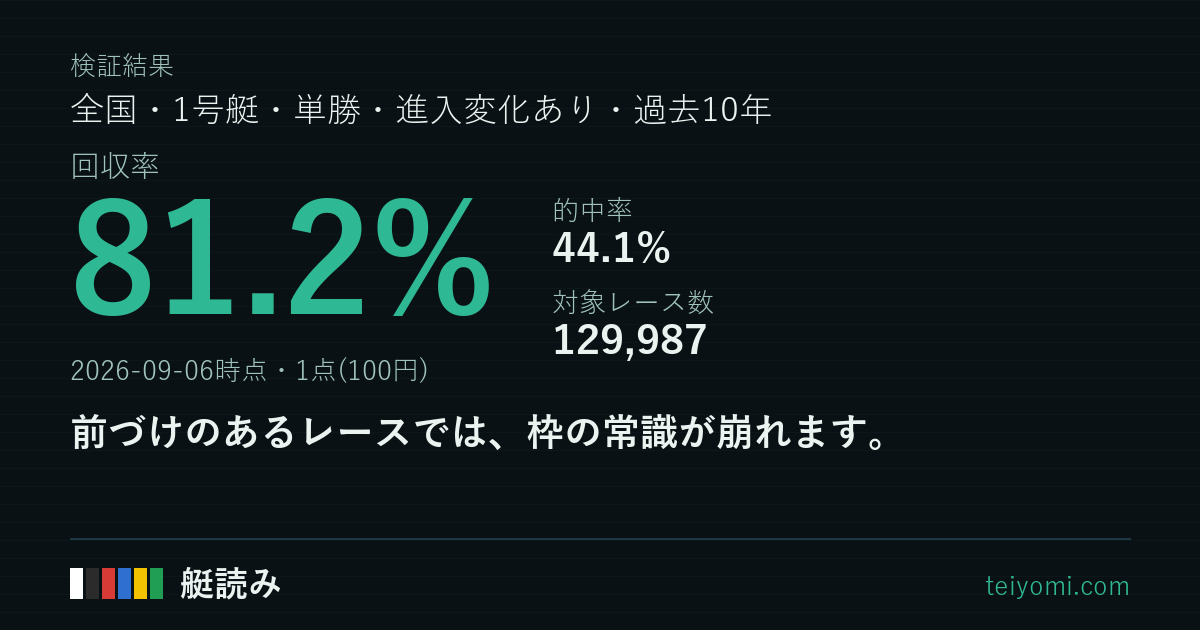
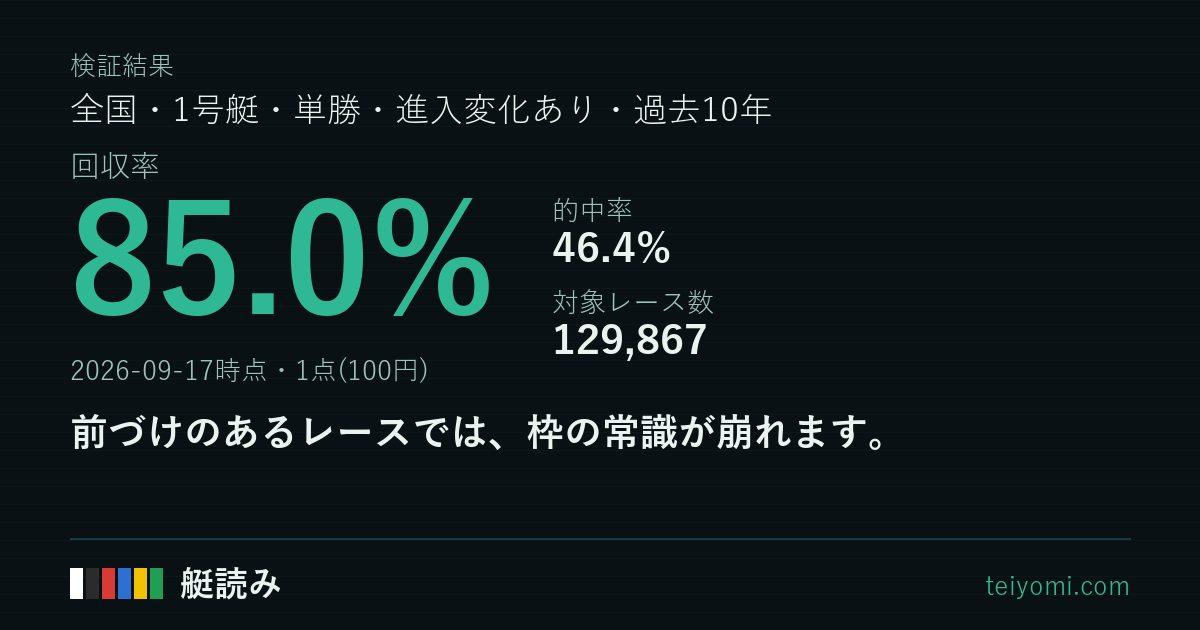
/checked/ の12本を測り直す(2026-09-17時点・欠場レースの払戻修正後)
- backtest-custom.html を ?preset= で開いて画面の値を写し直し(build_checked.py の手順)。
  欠場・出遅れのあったレースに払戻が入ったため、的中率・回収率がそろって上がった
  (艇番での検証は「払戻に自分の組があるか」で当たりを数えるので、払戻が空のレースは外れ扱いだった)
- 文章に書いてある数字も合わせる: C の見出し「的中3.1%」→3.2%、K・N の本文「89.5%」→90.4%(A の回収率)
- カード画像12枚・ページ13本を再生成

diff --git a/checked/index.html b/checked/index.html
@@ -5,12 +5,12 @@
 <meta name="viewport" content="width=device-width, initial-scale=1">
 <meta http-equiv="Content-Security-Policy" content="default-src 'self'; script-src 'self'; connect-src 'self'; style-src 'self' 'unsafe-inline'; img-src 'self' data:; object-src 'none'; base-uri 'self'; form-action 'self'">
 <title>検証結果｜艇読み</title>
-<meta name="description" content="1号艇の単勝を10年買い続けたら？ 条件を指定した検証の結果を12本。すべて実測の機械的な集計です（2026-09-06時点）。">
+<meta name="description" content="1号艇の単勝を10年買い続けたら？ 条件を指定した検証の結果を12本。すべて実測の機械的な集計です（2026-09-17時点）。">
 <link rel="canonical" href="https://teiyomi.com/checked/">
 <meta property="og:type" content="article">
 <meta property="og:url" content="https://teiyomi.com/checked/">
 <meta property="og:title" content="検証結果｜艇読み">
-<meta property="og:description" content="1号艇の単勝を10年買い続けたら？ 条件を指定した検証の結果を12本。すべて実測の機械的な集計です（2026-09-06時点）。">
+<meta property="og:description" content="1号艇の単勝を10年買い続けたら？ 条件を指定した検証の結果を12本。すべて実測の機械的な集計です（2026-09-17時点）。">
 <meta property="og:image" content="https://teiyomi.com/og-image.png">
 <meta name="twitter:card" content="summary_large_image">
 <link rel="stylesheet" href="/theme.css">
@@ -42,19 +42,19 @@ p.body{font-size:14.5px; margin:18px 0;}
 <div class="wrap">
 <p class="crumb"><a href="/">艇読み</a> ／ 検証結果</p>
 <h1>買い続けたら、どうなるか。</h1>
-<p class="cond">条件を決めて過去10年ぶんを集計した結果です（2026-09-06時点）。どれも同じ条件を自分で回せます。</p>
-<a class="go" style="background:var(--surface);color:var(--ink);border:1px solid var(--line);text-align:left;" href="/checked/zenkoku-tansho-1.html">全国・1号艇・単勝・過去10年<small>回収率 89.5% ／ 的中率 53.6% ／ 550,174レース</small></a>
-<a class="go" style="background:var(--surface);color:var(--ink);border:1px solid var(--line);text-align:left;" href="/checked/zenkoku-fukusho-1.html">全国・1号艇・複勝・過去10年<small>回収率 92.8% ／ 的中率 70.8% ／ 550,174レース</small></a>
-<a class="go" style="background:var(--surface);color:var(--ink);border:1px solid var(--line);text-align:left;" href="/checked/zenkoku-tansho-6.html">全国・6号艇・単勝・過去10年<small>回収率 38.6% ／ 的中率 3.1% ／ 550,174レース</small></a>
-<a class="go" style="background:var(--surface);color:var(--ink);border:1px solid var(--line);text-align:left;" href="/checked/zenkoku-3rentan-1-23.html">全国・1号艇を軸（1着）→2・3号艇・3連単・過去10年<small>回収率 80.0% ／ 的中率 12.0% ／ 550,174レース</small></a>
-<a class="go" style="background:var(--surface);color:var(--ink);border:1px solid var(--line);text-align:left;" href="/checked/zenkoku-3rentan-1-nagashi.html">全国・1号艇を軸（1着）→残り5艇・3連単・過去10年<small>回収率 70.7% ／ 的中率 53.6% ／ 550,174レース</small></a>
-<a class="go" style="background:var(--surface);color:var(--ink);border:1px solid var(--line);text-align:left;" href="/checked/omura-tansho-1.html">大村・1号艇・単勝・過去10年<small>回収率 92.6% ／ 的中率 62.8% ／ 23,540レース</small></a>
-<a class="go" style="background:var(--surface);color:var(--ink);border:1px solid var(--line);text-align:left;" href="/checked/toda-tansho-1.html">戸田・1号艇・単勝・過去10年<small>回収率 82.4% ／ 的中率 42.1% ／ 23,167レース</small></a>
-<a class="go" style="background:var(--surface);color:var(--ink);border:1px solid var(--line);text-align:left;" href="/checked/zenkoku-tansho-1-wind5.html">全国・1号艇・単勝・風5m以上・過去10年<small>回収率 83.4% ／ 的中率 47.8% ／ 86,116レース</small></a>
-<a class="go" style="background:var(--surface);color:var(--ink);border:1px solid var(--line);text-align:left;" href="/checked/zenkoku-tansho-1-yusho.html">全国・1号艇・単勝・優勝戦・過去10年<small>回収率 86.9% ／ 的中率 68.9% ／ 8,518レース</small></a>
-<a class="go" style="background:var(--surface);color:var(--ink);border:1px solid var(--line);text-align:left;" href="/checked/zenkoku-tansho-1-entrychange.html">全国・1号艇・単勝・進入変化あり・過去10年<small>回収率 81.2% ／ 的中率 44.1% ／ 129,987レース</small></a>
-<a class="go" style="background:var(--surface);color:var(--ink);border:1px solid var(--line);text-align:left;" href="/checked/zenkoku-tansho-1-night.html">全国・1号艇・単勝・ナイター場・過去10年<small>回収率 89.8% ／ 的中率 56.0% ／ 161,365レース</small></a>
-<a class="go" style="background:var(--surface);color:var(--ink);border:1px solid var(--line);text-align:left;" href="/checked/zenkoku-tansho-1-winter.html">全国・1号艇・単勝・冬(12〜2月)・過去10年<small>回収率 89.7% ／ 的中率 53.6% ／ 141,794レース</small></a>
+<p class="cond">条件を決めて過去10年ぶんを集計した結果です（2026-09-17時点）。どれも同じ条件を自分で回せます。</p>
+<a class="go" style="background:var(--surface);color:var(--ink);border:1px solid var(--line);text-align:left;" href="/checked/zenkoku-tansho-1.html">全国・1号艇・単勝・過去10年<small>回収率 90.4% ／ 的中率 54.1% ／ 550,294レース</small></a>
+<a class="go" style="background:var(--surface);color:var(--ink);border:1px solid var(--line);text-align:left;" href="/checked/zenkoku-fukusho-1.html">全国・1号艇・複勝・過去10年<small>回収率 93.8% ／ 的中率 71.5% ／ 550,294レース</small></a>
+<a class="go" style="background:var(--surface);color:var(--ink);border:1px solid var(--line);text-align:left;" href="/checked/zenkoku-tansho-6.html">全国・6号艇・単勝・過去10年<small>回収率 39.1% ／ 的中率 3.2% ／ 550,294レース</small></a>
+<a class="go" style="background:var(--surface);color:var(--ink);border:1px solid var(--line);text-align:left;" href="/checked/zenkoku-3rentan-1-23.html">全国・1号艇を軸（1着）→2・3号艇・3連単・過去10年<small>回収率 80.5% ／ 的中率 12.1% ／ 550,294レース</small></a>
+<a class="go" style="background:var(--surface);color:var(--ink);border:1px solid var(--line);text-align:left;" href="/checked/zenkoku-3rentan-1-nagashi.html">全国・1号艇を軸（1着）→残り5艇・3連単・過去10年<small>回収率 71.1% ／ 的中率 54.1% ／ 550,294レース</small></a>
+<a class="go" style="background:var(--surface);color:var(--ink);border:1px solid var(--line);text-align:left;" href="/checked/omura-tansho-1.html">大村・1号艇・単勝・過去10年<small>回収率 93.4% ／ 的中率 63.4% ／ 23,552レース</small></a>
+<a class="go" style="background:var(--surface);color:var(--ink);border:1px solid var(--line);text-align:left;" href="/checked/toda-tansho-1.html">戸田・1号艇・単勝・過去10年<small>回収率 83.3% ／ 的中率 42.7% ／ 23,143レース</small></a>
+<a class="go" style="background:var(--surface);color:var(--ink);border:1px solid var(--line);text-align:left;" href="/checked/zenkoku-tansho-1-wind5.html">全国・1号艇・単勝・風5m以上・過去10年<small>回収率 84.5% ／ 的中率 48.4% ／ 86,188レース</small></a>
+<a class="go" style="background:var(--surface);color:var(--ink);border:1px solid var(--line);text-align:left;" href="/checked/zenkoku-tansho-1-yusho.html">全国・1号艇・単勝・優勝戦・過去10年<small>回収率 86.9% ／ 的中率 69.0% ／ 8,516レース</small></a>
+<a class="go" style="background:var(--surface);color:var(--ink);border:1px solid var(--line);text-align:left;" href="/checked/zenkoku-tansho-1-entrychange.html">全国・1号艇・単勝・進入変化あり・過去10年<small>回収率 85.0% ／ 的中率 46.4% ／ 129,867レース</small></a>
+<a class="go" style="background:var(--surface);color:var(--ink);border:1px solid var(--line);text-align:left;" href="/checked/zenkoku-tansho-1-night.html">全国・1号艇・単勝・ナイター場・過去10年<small>回収率 90.6% ／ 的中率 56.5% ／ 161,341レース</small></a>
+<a class="go" style="background:var(--surface);color:var(--ink);border:1px solid var(--line);text-align:left;" href="/checked/zenkoku-tansho-1-winter.html">全国・1号艇・単勝・冬(12〜2月)・過去10年<small>回収率 90.8% ／ 的中率 54.2% ／ 141,794レース</small></a>
 <p class="note">実測の機械的な集計です。買い方の推奨ではありません。数字は集計日時点のもので、データは毎日増えています。</p>
 </div>
 </body>

diff --git a/checked/zenkoku-tansho-1-night.html b/checked/zenkoku-tansho-1-night.html
@@ -5,12 +5,12 @@
 <meta name="viewport" content="width=device-width, initial-scale=1">
 <meta http-equiv="Content-Security-Policy" content="default-src 'self'; script-src 'self'; connect-src 'self'; style-src 'self' 'unsafe-inline'; img-src 'self' data:; object-src 'none'; base-uri 'self'; form-action 'self'">
 <title>全国・1号艇・単勝・ナイター場・過去10年の検証結果｜艇読み</title>
-<meta name="description" content="全国・1号艇・単勝・ナイター場・過去10年を買い続けた場合の回収率は89.8%、的中率は56.0%。161,365レースの機械的な集計です（2026-09-06時点）。">
+<meta name="description" content="全国・1号艇・単勝・ナイター場・過去10年を買い続けた場合の回収率は90.6%、的中率は56.5%。161,341レースの機械的な集計です（2026-09-17時点）。">
 <link rel="canonical" href="https://teiyomi.com/checked/zenkoku-tansho-1-night.html">
 <meta property="og:type" content="article">
 <meta property="og:url" content="https://teiyomi.com/checked/zenkoku-tansho-1-night.html">
 <meta property="og:title" content="全国・1号艇・単勝・ナイター場・過去10年の検証結果｜艇読み">
-<meta property="og:description" content="全国・1号艇・単勝・ナイター場・過去10年を買い続けた場合の回収率は89.8%、的中率は56.0%。161,365レースの機械的な集計です（2026-09-06時点）。">
+<meta property="og:description" content="全国・1号艇・単勝・ナイター場・過去10年を買い続けた場合の回収率は90.6%、的中率は56.5%。161,341レースの機械的な集計です（2026-09-17時点）。">
 <meta property="og:image" content="https://teiyomi.com/cards/checked/zenkoku-tansho-1-night.png">
 <meta name="twitter:card" content="summary_large_image">
 <link rel="stylesheet" href="/theme.css">
@@ -43,8 +43,8 @@ p.body{font-size:14.5px; margin:18px 0;}
 <p class="crumb"><a href="/">艇読み</a> ／ <a href="/checked/">検証結果</a></p>
 <h1>「ナイターはインが強い」——実測では、全国とほぼ同じでした。</h1>
 <p class="cond">全国・1号艇・単勝・ナイター場・過去10年</p>
-<div class="nums"><div><div class="k">回収率</div><div class="v hi">89.8%</div></div><div><div class="k">的中率</div><div class="v">56.0%</div></div><div><div class="k">対象レース数</div><div class="v">161,365</div></div><div><div class="k">1レースあたり</div><div class="v">1点(100円)</div></div><div class="wide"><div class="k">総賭け金 ／ 総払戻</div><div class="v">¥16,136,500 ／ ¥14,495,480</div></div><div class="wide"><div class="k">期間 ／ 集計日</div><div class="v">過去10年 ／ 2026-09-06時点</div></div></div>
-<p class="body">ナイター開催の会場だけに絞って、1号艇の単勝を1点買い続けた場合の集計です。期間は過去10年、1レースあたり100円で計算しています。全国すべてで同じ買い方をした場合は89.5%でした。</p>
+<div class="nums"><div><div class="k">回収率</div><div class="v hi">90.6%</div></div><div><div class="k">的中率</div><div class="v">56.5%</div></div><div><div class="k">対象レース数</div><div class="v">161,341</div></div><div><div class="k">1レースあたり</div><div class="v">1点(100円)</div></div><div class="wide"><div class="k">総賭け金 ／ 総払戻</div><div class="v">¥16,134,100 ／ ¥14,623,520</div></div><div class="wide"><div class="k">期間 ／ 集計日</div><div class="v">過去10年 ／ 2026-09-17時点</div></div></div>
+<p class="body">ナイター開催の会場だけに絞って、1号艇の単勝を1点買い続けた場合の集計です。期間は過去10年、1レースあたり100円で計算しています。全国すべてで同じ買い方をした場合は90.4%でした。</p>
 <a class="go" href="/backtest-custom.html?preset=%7B%22venue%22%3A%22%E5%85%A8%E5%9B%BD%22%2C%22period%22%3A%2210y%22%2C%22bet%22%3A%22t%22%2C%22mode%22%3A%22single%22%2C%22singleBoats%22%3A%5B1%5D%2C%22filter%22%3A%7B%22session%22%3A%22night%22%7D%7D">この条件を自分で回す<small>同じ条件でバックテストが開きます</small></a>
 <p class="more"><a href="/checked/">ほかの検証結果を見る</a></p>
 <p class="note">実測の機械的な集計です。買い方の推奨ではありません。数字は集計日時点のもので、データは毎日増えています。</p>

diff --git a/checked/zenkoku-tansho-1-winter.html b/checked/zenkoku-tansho-1-winter.html
@@ -5,12 +5,12 @@
 <meta name="viewport" content="width=device-width, initial-scale=1">
 <meta http-equiv="Content-Security-Policy" content="default-src 'self'; script-src 'self'; connect-src 'self'; style-src 'self' 'unsafe-inline'; img-src 'self' data:; object-src 'none'; base-uri 'self'; form-action 'self'">
 <title>全国・1号艇・単勝・冬(12〜2月)・過去10年の検証結果｜艇読み</title>
-<meta name="description" content="全国・1号艇・単勝・冬(12〜2月)・過去10年を買い続けた場合の回収率は89.7%、的中率は53.6%。141,794レースの機械的な集計です（2026-09-06時点）。">
+<meta name="description" content="全国・1号艇・単勝・冬(12〜2月)・過去10年を買い続けた場合の回収率は90.8%、的中率は54.2%。141,794レースの機械的な集計です（2026-09-17時点）。">
 <link rel="canonical" href="https://teiyomi.com/checked/zenkoku-tansho-1-winter.html">
 <meta property="og:type" content="article">
 <meta property="og:url" content="https://teiyomi.com/checked/zenkoku-tansho-1-winter.html">
 <meta property="og:title" content="全国・1号艇・単勝・冬(12〜2月)・過去10年の検証結果｜艇読み">
-<meta property="og:description" content="全国・1号艇・単勝・冬(12〜2月)・過去10年を買い続けた場合の回収率は89.7%、的中率は53.6%。141,794レースの機械的な集計です（2026-09-06時点）。">
+<meta property="og:description" content="全国・1号艇・単勝・冬(12〜2月)・過去10年を買い続けた場合の回収率は90.8%、的中率は54.2%。141,794レースの機械的な集計です（2026-09-17時点）。">
 <meta property="og:image" content="https://teiyomi.com/cards/checked/zenkoku-tansho-1-winter.png">
 <meta name="twitter:card" content="summary_large_image">
 <link rel="stylesheet" href="/theme.css">
@@ -43,8 +43,8 @@ p.body{font-size:14.5px; margin:18px 0;}
 <p class="crumb"><a href="/">艇読み</a> ／ <a href="/checked/">検証結果</a></p>
 <h1>「冬は荒れる」——実測では、季節差はありませんでした。</h1>
 <p class="cond">全国・1号艇・単勝・冬(12〜2月)・過去10年</p>
-<div class="nums"><div><div class="k">回収率</div><div class="v hi">89.7%</div></div><div><div class="k">的中率</div><div class="v">53.6%</div></div><div><div class="k">対象レース数</div><div class="v">141,794</div></div><div><div class="k">1レースあたり</div><div class="v">1点(100円)</div></div><div class="wide"><div class="k">総賭け金 ／ 総払戻</div><div class="v">¥14,179,400 ／ ¥12,724,980</div></div><div class="wide"><div class="k">期間 ／ 集計日</div><div class="v">過去10年 ／ 2026-09-06時点</div></div></div>
-<p class="body">12月から2月のレースだけに絞って、1号艇の単勝を1点買い続けた場合の集計です。期間は過去10年、1レースあたり100円で計算しています。季節で絞らない場合は89.5%でした。</p>
+<div class="nums"><div><div class="k">回収率</div><div class="v hi">90.8%</div></div><div><div class="k">的中率</div><div class="v">54.2%</div></div><div><div class="k">対象レース数</div><div class="v">141,794</div></div><div><div class="k">1レースあたり</div><div class="v">1点(100円)</div></div><div class="wide"><div class="k">総賭け金 ／ 総払戻</div><div class="v">¥14,179,400 ／ ¥12,870,700</div></div><div class="wide"><div class="k">期間 ／ 集計日</div><div class="v">過去10年 ／ 2026-09-17時点</div></div></div>
+<p class="body">12月から2月のレースだけに絞って、1号艇の単勝を1点買い続けた場合の集計です。期間は過去10年、1レースあたり100円で計算しています。季節で絞らない場合は90.4%でした。</p>
 <a class="go" href="/backtest-custom.html?preset=%7B%22venue%22%3A%22%E5%85%A8%E5%9B%BD%22%2C%22period%22%3A%2210y%22%2C%22bet%22%3A%22t%22%2C%22mode%22%3A%22single%22%2C%22singleBoats%22%3A%5B1%5D%2C%22filter%22%3A%7B%22month%22%3A%22winter%22%7D%7D">この条件を自分で回す<small>同じ条件でバックテストが開きます</small></a>
 <p class="more"><a href="/checked/">ほかの検証結果を見る</a></p>
 <p class="note">実測の機械的な集計です。買い方の推奨ではありません。数字は集計日時点のもので、データは毎日増えています。</p>

diff --git a/checked/zenkoku-tansho-6.html b/checked/zenkoku-tansho-6.html
@@ -5,12 +5,12 @@
 <meta name="viewport" content="width=device-width, initial-scale=1">
 <meta http-equiv="Content-Security-Policy" content="default-src 'self'; script-src 'self'; connect-src 'self'; style-src 'self' 'unsafe-inline'; img-src 'self' data:; object-src 'none'; base-uri 'self'; form-action 'self'">
 <title>全国・6号艇・単勝・過去10年の検証結果｜艇読み</title>
-<meta name="description" content="全国・6号艇・単勝・過去10年を買い続けた場合の回収率は38.6%、的中率は3.1%。550,174レースの機械的な集計です（2026-09-06時点）。">
+<meta name="description" content="全国・6号艇・単勝・過去10年を買い続けた場合の回収率は39.1%、的中率は3.2%。550,294レースの機械的な集計です（2026-09-17時点）。">
 <link rel="canonical" href="https://teiyomi.com/checked/zenkoku-tansho-6.html">
 <meta property="og:type" content="article">
 <meta property="og:url" content="https://teiyomi.com/checked/zenkoku-tansho-6.html">
 <meta property="og:title" content="全国・6号艇・単勝・過去10年の検証結果｜艇読み">
-<meta property="og:description" content="全国・6号艇・単勝・過去10年を買い続けた場合の回収率は38.6%、的中率は3.1%。550,174レースの機械的な集計です（2026-09-06時点）。">
+<meta property="og:description" content="全国・6号艇・単勝・過去10年を買い続けた場合の回収率は39.1%、的中率は3.2%。550,294レースの機械的な集計です（2026-09-17時点）。">
 <meta property="og:image" content="https://teiyomi.com/cards/checked/zenkoku-tansho-6.png">
 <meta name="twitter:card" content="summary_large_image">
 <link rel="stylesheet" href="/theme.css">
@@ -41,12 +41,12 @@ p.body{font-size:14.5px; margin:18px 0;}
 <body>
 <div class="wrap">
 <p class="crumb"><a href="/">艇読み</a> ／ <a href="/checked/">検証結果</a></p>
-<h1>10年で的中3.1%。6号艇の現実です。</h1>
+<h1>10年で的中3.2%。6号艇の現実です。</h1>
 <p class="cond">全国・6号艇・単勝・過去10年</p>
-<div class="nums"><div><div class="k">回収率</div><div class="v hi">38.6%</div></div><div><div class="k">的中率</div><div class="v">3.1%</div></div><div><div class="k">対象レース数</div><div class="v">550,174</div></div><div><div class="k">1レースあたり</div><div class="v">1点(100円)</div></div><div class="wide"><div class="k">総賭け金 ／ 総払戻</div><div class="v">¥55,017,400 ／ ¥21,227,870</div></div><div class="wide"><div class="k">期間 ／ 集計日</div><div class="v">過去10年 ／ 2026-09-06時点</div></div></div>
+<div class="nums"><div><div class="k">回収率</div><div class="v hi">39.1%</div></div><div><div class="k">的中率</div><div class="v">3.2%</div></div><div><div class="k">対象レース数</div><div class="v">550,294</div></div><div><div class="k">1レースあたり</div><div class="v">1点(100円)</div></div><div class="wide"><div class="k">総賭け金 ／ 総払戻</div><div class="v">¥55,029,400 ／ ¥21,527,370</div></div><div class="wide"><div class="k">期間 ／ 集計日</div><div class="v">過去10年 ／ 2026-09-17時点</div></div></div>
 <p class="body">全国24会場のすべてのレースで、6号艇の単勝を1点だけ買い続けた場合の集計です。期間は過去10年、1レースあたり100円で計算しています。</p>
 <a class="go" href="/backtest-custom.html?preset=%7B%22venue%22%3A%22%E5%85%A8%E5%9B%BD%22%2C%22period%22%3A%2210y%22%2C%22bet%22%3A%22t%22%2C%22mode%22%3A%22single%22%2C%22singleBoats%22%3A%5B6%5D%7D">この条件を自分で回す<small>同じ条件でバックテストが開きます</small></a>
-<p class="also">あわせて見る：<a href="/checked/zenkoku-tansho-1.html">全国・1号艇・単勝・過去10年（回収率89.5%）</a></p>
+<p class="also">あわせて見る：<a href="/checked/zenkoku-tansho-1.html">全国・1号艇・単勝・過去10年（回収率90.4%）</a></p>
 <p class="more"><a href="/checked/">ほかの検証結果を見る</a></p>
 <p class="note">実測の機械的な集計です。買い方の推奨ではありません。数字は集計日時点のもので、データは毎日増えています。</p>
 </div>

diff --git a/checked/zenkoku-tansho-1.html b/checked/zenkoku-tansho-1.html
@@ -5,12 +5,12 @@
 <meta name="viewport" content="width=device-width, initial-scale=1">
 <meta http-equiv="Content-Security-Policy" content="default-src 'self'; script-src 'self'; connect-src 'self'; style-src 'self' 'unsafe-inline'; img-src 'self' data:; object-src 'none'; base-uri 'self'; form-action 'self'">
 <title>全国・1号艇・単勝・過去10年の検証結果｜艇読み</title>
-<meta name="description" content="全国・1号艇・単勝・過去10年を買い続けた場合の回収率は89.5%、的中率は53.6%。550,174レースの機械的な集計です（2026-09-06時点）。">
+<meta name="description" content="全国・1号艇・単勝・過去10年を買い続けた場合の回収率は90.4%、的中率は54.1%。550,294レースの機械的な集計です（2026-09-17時点）。">
 <link rel="canonical" href="https://teiyomi.com/checked/zenkoku-tansho-1.html">
 <meta property="og:type" content="article">
 <meta property="og:url" content="https://teiyomi.com/checked/zenkoku-tansho-1.html">
 <meta property="og:title" content="全国・1号艇・単勝・過去10年の検証結果｜艇読み">
-<meta property="og:description" content="全国・1号艇・単勝・過去10年を買い続けた場合の回収率は89.5%、的中率は53.6%。550,174レースの機械的な集計です（2026-09-06時点）。">
+<meta property="og:description" content="全国・1号艇・単勝・過去10年を買い続けた場合の回収率は90.4%、的中率は54.1%。550,294レースの機械的な集計です（2026-09-17時点）。">
 <meta property="og:image" content="https://teiyomi.com/cards/checked/zenkoku-tansho-1.png">
 <meta name="twitter:card" content="summary_large_image">
 <link rel="stylesheet" href="/theme.css">
@@ -43,10 +43,10 @@ p.body{font-size:14.5px; margin:18px 0;}
 <p class="crumb"><a href="/">艇読み</a> ／ <a href="/checked/">検証結果</a></p>
 <h1>1号艇は半分以上勝ちます。それでも、買い続けると負けます。</h1>
 <p class="cond">全国・1号艇・単勝・過去10年</p>
-<div class="nums"><div><div class="k">回収率</div><div class="v hi">89.5%</div></div><div><div class="k">的中率</div><div class="v">53.6%</div></div><div><div class="k">対象レース数</div><div class="v">550,174</div></div><div><div class="k">1レースあたり</div><div class="v">1点(100円)</div></div><div class="wide"><div class="k">総賭け金 ／ 総払戻</div><div class="v">¥55,017,400 ／ ¥49,245,470</div></div><div class="wide"><div class="k">期間 ／ 集計日</div><div class="v">過去10年 ／ 2026-09-06時点</div></div></div>
+<div class="nums"><div><div class="k">回収率</div><div class="v hi">90.4%</div></div><div><div class="k">的中率</div><div class="v">54.1%</div></div><div><div class="k">対象レース数</div><div class="v">550,294</div></div><div><div class="k">1レースあたり</div><div class="v">1点(100円)</div></div><div class="wide"><div class="k">総賭け金 ／ 総払戻</div><div class="v">¥55,029,400 ／ ¥49,747,180</div></div><div class="wide"><div class="k">期間 ／ 集計日</div><div class="v">過去10年 ／ 2026-09-17時点</div></div></div>
 <p class="body">全国24会場のすべてのレースで、1号艇の単勝を1点だけ買い続けた場合の集計です。期間は過去10年、1レースあたり100円で計算しています。</p>
 <a class="go" href="/backtest-custom.html?preset=%7B%22venue%22%3A%22%E5%85%A8%E5%9B%BD%22%2C%22period%22%3A%2210y%22%2C%22bet%22%3A%22t%22%2C%22mode%22%3A%22single%22%2C%22singleBoats%22%3A%5B1%5D%7D">この条件を自分で回す<small>同じ条件でバックテストが開きます</small></a>
-<p class="also">あわせて見る：<a href="/checked/zenkoku-tansho-6.html">全国・6号艇・単勝・過去10年（回収率38.6%）</a></p>
+<p class="also">あわせて見る：<a href="/checked/zenkoku-tansho-6.html">全国・6号艇・単勝・過去10年（回収率39.1%）</a></p>
 <p class="more"><a href="/checked/">ほかの検証結果を見る</a></p>
 <p class="note">実測の機械的な集計です。買い方の推奨ではありません。数字は集計日時点のもので、データは毎日増えています。</p>
 </div>

diff --git a/checked/omura-tansho-1.html b/checked/omura-tansho-1.html
@@ -5,12 +5,12 @@
 <meta name="viewport" content="width=device-width, initial-scale=1">
 <meta http-equiv="Content-Security-Policy" content="default-src 'self'; script-src 'self'; connect-src 'self'; style-src 'self' 'unsafe-inline'; img-src 'self' data:; object-src 'none'; base-uri 'self'; form-action 'self'">
 <title>大村・1号艇・単勝・過去10年の検証結果｜艇読み</title>
-<meta name="description" content="大村・1号艇・単勝・過去10年を買い続けた場合の回収率は92.6%、的中率は62.8%。23,540レースの機械的な集計です（2026-09-06時点）。">
+<meta name="description" content="大村・1号艇・単勝・過去10年を買い続けた場合の回収率は93.4%、的中率は63.4%。23,552レースの機械的な集計です（2026-09-17時点）。">
 <link rel="canonical" href="https://teiyomi.com/checked/omura-tansho-1.html">
 <meta property="og:type" content="article">
 <meta property="og:url" content="https://teiyomi.com/checked/omura-tansho-1.html">
 <meta property="og:title" content="大村・1号艇・単勝・過去10年の検証結果｜艇読み">
-<meta property="og:description" content="大村・1号艇・単勝・過去10年を買い続けた場合の回収率は92.6%、的中率は62.8%。23,540レースの機械的な集計です（2026-09-06時点）。">
+<meta property="og:description" content="大村・1号艇・単勝・過去10年を買い続けた場合の回収率は93.4%、的中率は63.4%。23,552レースの機械的な集計です（2026-09-17時点）。">
 <meta property="og:image" content="https://teiyomi.com/cards/checked/omura-tansho-1.png">
 <meta name="twitter:card" content="summary_large_image">
 <link rel="stylesheet" href="/theme.css">
@@ -43,10 +43,10 @@ p.body{font-size:14.5px; margin:18px 0;}
 <p class="crumb"><a href="/">艇読み</a> ／ <a href="/checked/">検証結果</a></p>
 <h1>イン日本一の水面。それでも100%には届きません。</h1>
 <p class="cond">大村・1号艇・単勝・過去10年</p>
-<div class="nums"><div><div class="k">回収率</div><div class="v hi">92.6%</div></div><div><div class="k">的中率</div><div class="v">62.8%</div></div><div><div class="k">対象レース数</div><div class="v">23,540</div></div><div><div class="k">1レースあたり</div><div class="v">1点(100円)</div></div><div class="wide"><div class="k">総賭け金 ／ 総払戻</div><div class="v">¥2,354,000 ／ ¥2,180,700</div></div><div class="wide"><div class="k">期間 ／ 集計日</div><div class="v">過去10年 ／ 2026-09-06時点</div></div></div>
+<div class="nums"><div><div class="k">回収率</div><div class="v hi">93.4%</div></div><div><div class="k">的中率</div><div class="v">63.4%</div></div><div><div class="k">対象レース数</div><div class="v">23,552</div></div><div><div class="k">1レースあたり</div><div class="v">1点(100円)</div></div><div class="wide"><div class="k">総賭け金 ／ 総払戻</div><div class="v">¥2,355,200 ／ ¥2,199,080</div></div><div class="wide"><div class="k">期間 ／ 集計日</div><div class="v">過去10年 ／ 2026-09-17時点</div></div></div>
 <p class="body">大村のすべてのレースで、1号艇の単勝を1点だけ買い続けた場合の集計です。期間は過去10年、1レースあたり100円で計算しています。</p>
 <a class="go" href="/backtest-custom.html?preset=%7B%22venue%22%3A%22%E5%A4%A7%E6%9D%91%22%2C%22period%22%3A%2210y%22%2C%22bet%22%3A%22t%22%2C%22mode%22%3A%22single%22%2C%22singleBoats%22%3A%5B1%5D%7D">この条件を自分で回す<small>同じ条件でバックテストが開きます</small></a>
-<p class="also">あわせて見る：<a href="/checked/toda-tansho-1.html">戸田・1号艇・単勝・過去10年（回収率82.4%）</a></p>
+<p class="also">あわせて見る：<a href="/checked/toda-tansho-1.html">戸田・1号艇・単勝・過去10年（回収率83.3%）</a></p>
 <p class="more"><a href="/checked/">ほかの検証結果を見る</a></p>
 <p class="note">実測の機械的な集計です。買い方の推奨ではありません。数字は集計日時点のもので、データは毎日増えています。</p>
 </div>

diff --git a/checked/toda-tansho-1.html b/checked/toda-tansho-1.html
@@ -5,12 +5,12 @@
 <meta name="viewport" content="width=device-width, initial-scale=1">
 <meta http-equiv="Content-Security-Policy" content="default-src 'self'; script-src 'self'; connect-src 'self'; style-src 'self' 'unsafe-inline'; img-src 'self' data:; object-src 'none'; base-uri 'self'; form-action 'self'">
 <title>戸田・1号艇・単勝・過去10年の検証結果｜艇読み</title>
-<meta name="description" content="戸田・1号艇・単勝・過去10年を買い続けた場合の回収率は82.4%、的中率は42.1%。23,167レースの機械的な集計です（2026-09-06時点）。">
+<meta name="description" content="戸田・1号艇・単勝・過去10年を買い続けた場合の回収率は83.3%、的中率は42.7%。23,143レースの機械的な集計です（2026-09-17時点）。">
 <link rel="canonical" href="https://teiyomi.com/checked/toda-tansho-1.html">
 <meta property="og:type" content="article">
 <meta property="og:url" content="https://teiyomi.com/checked/toda-tansho-1.html">
 <meta property="og:title" content="戸田・1号艇・単勝・過去10年の検証結果｜艇読み">
-<meta property="og:description" content="戸田・1号艇・単勝・過去10年を買い続けた場合の回収率は82.4%、的中率は42.1%。23,167レースの機械的な集計です（2026-09-06時点）。">
+<meta property="og:description" content="戸田・1号艇・単勝・過去10年を買い続けた場合の回収率は83.3%、的中率は42.7%。23,143レースの機械的な集計です（2026-09-17時点）。">
 <meta property="og:image" content="https://teiyomi.com/cards/checked/toda-tansho-1.png">
 <meta name="twitter:card" content="summary_large_image">
 <link rel="stylesheet" href="/theme.css">
@@ -43,10 +43,10 @@ p.body{font-size:14.5px; margin:18px 0;}
 <p class="crumb"><a href="/">艇読み</a> ／ <a href="/checked/">検証結果</a></p>
 <h1>同じ買い方でも、水面が変われば10pt変わります。</h1>
 <p class="cond">戸田・1号艇・単勝・過去10年</p>
-<div class="nums"><div><div class="k">回収率</div><div class="v hi">82.4%</div></div><div><div class="k">的中率</div><div class="v">42.1%</div></div><div><div class="k">対象レース数</div><div class="v">23,167</div></div><div><div class="k">1レースあたり</div><div class="v">1点(100円)</div></div><div class="wide"><div class="k">総賭け金 ／ 総払戻</div><div class="v">¥2,316,700 ／ ¥1,908,030</div></div><div class="wide"><div class="k">期間 ／ 集計日</div><div class="v">過去10年 ／ 2026-09-06時点</div></div></div>
+<div class="nums"><div><div class="k">回収率</div><div class="v hi">83.3%</div></div><div><div class="k">的中率</div><div class="v">42.7%</div></div><div><div class="k">対象レース数</div><div class="v">23,143</div></div><div><div class="k">1レースあたり</div><div class="v">1点(100円)</div></div><div class="wide"><div class="k">総賭け金 ／ 総払戻</div><div class="v">¥2,314,300 ／ ¥1,927,510</div></div><div class="wide"><div class="k">期間 ／ 集計日</div><div class="v">過去10年 ／ 2026-09-17時点</div></div></div>
 <p class="body">戸田のすべてのレースで、1号艇の単勝を1点だけ買い続けた場合の集計です。期間は過去10年、1レースあたり100円で計算しています。</p>
 <a class="go" href="/backtest-custom.html?preset=%7B%22venue%22%3A%22%E6%88%B8%E7%94%B0%22%2C%22period%22%3A%2210y%22%2C%22bet%22%3A%22t%22%2C%22mode%22%3A%22single%22%2C%22singleBoats%22%3A%5B1%5D%7D">この条件を自分で回す<small>同じ条件でバックテストが開きます</small></a>
-<p class="also">あわせて見る：<a href="/checked/omura-tansho-1.html">大村・1号艇・単勝・過去10年（回収率92.6%）</a></p>
+<p class="also">あわせて見る：<a href="/checked/omura-tansho-1.html">大村・1号艇・単勝・過去10年（回収率93.4%）</a></p>
 <p class="more"><a href="/checked/">ほかの検証結果を見る</a></p>
 <p class="note">実測の機械的な集計です。買い方の推奨ではありません。数字は集計日時点のもので、データは毎日増えています。</p>
 </div>

diff --git a/checked/zenkoku-3rentan-1-nagashi.html b/checked/zenkoku-3rentan-1-nagashi.html
@@ -5,12 +5,12 @@
 <meta name="viewport" content="width=device-width, initial-scale=1">
 <meta http-equiv="Content-Security-Policy" content="default-src 'self'; script-src 'self'; connect-src 'self'; style-src 'self' 'unsafe-inline'; img-src 'self' data:; object-src 'none'; base-uri 'self'; form-action 'self'">
 <title>全国・1号艇を軸（1着）→残り5艇・3連単・過去10年の検証結果｜艇読み</title>
-<meta name="description" content="全国・1号艇を軸（1着）→残り5艇・3連単・過去10年を買い続けた場合の回収率は70.7%、的中率は53.6%。550,174レースの機械的な集計です（2026-09-06時点）。">
+<meta name="description" content="全国・1号艇を軸（1着）→残り5艇・3連単・過去10年を買い続けた場合の回収率は71.1%、的中率は54.1%。550,294レースの機械的な集計です（2026-09-17時点）。">
 <link rel="canonical" href="https://teiyomi.com/checked/zenkoku-3rentan-1-nagashi.html">
 <meta property="og:type" content="article">
 <meta property="og:url" content="https://teiyomi.com/checked/zenkoku-3rentan-1-nagashi.html">
 <meta property="og:title" content="全国・1号艇を軸（1着）→残り5艇・3連単・過去10年の検証結果｜艇読み">
-<meta property="og:description" content="全国・1号艇を軸（1着）→残り5艇・3連単・過去10年を買い続けた場合の回収率は70.7%、的中率は53.6%。550,174レースの機械的な集計です（2026-09-06時点）。">
+<meta property="og:description" content="全国・1号艇を軸（1着）→残り5艇・3連単・過去10年を買い続けた場合の回収率は71.1%、的中率は54.1%。550,294レースの機械的な集計です（2026-09-17時点）。">
 <meta property="og:image" content="https://teiyomi.com/cards/checked/zenkoku-3rentan-1-nagashi.png">
 <meta name="twitter:card" content="summary_large_image">
 <link rel="stylesheet" href="/theme.css">
@@ -43,7 +43,7 @@ p.body{font-size:14.5px; margin:18px 0;}
 <p class="crumb"><a href="/">艇読み</a> ／ <a href="/checked/">検証結果</a></p>
 <h1>点を広げるほど、回収率は下がります。</h1>
 <p class="cond">全国・1号艇を軸（1着）→残り5艇・3連単・過去10年</p>
-<div class="nums"><div><div class="k">回収率</div><div class="v hi">70.7%</div></div><div><div class="k">的中率</div><div class="v">53.6%</div></div><div><div class="k">対象レース数</div><div class="v">550,174</div></div><div><div class="k">1レースあたり</div><div class="v">20点(2,000円)</div></div><div class="wide"><div class="k">総賭け金 ／ 総払戻</div><div class="v">¥1,100,348,000 ／ ¥777,674,770</div></div><div class="wide"><div class="k">期間 ／ 集計日</div><div class="v">過去10年 ／ 2026-09-06時点</div></div></div>
+<div class="nums"><div><div class="k">回収率</div><div class="v hi">71.1%</div></div><div><div class="k">的中率</div><div class="v">54.1%</div></div><div><div class="k">対象レース数</div><div class="v">550,294</div></div><div><div class="k">1レースあたり</div><div class="v">20点(2,000円)</div></div><div class="wide"><div class="k">総賭け金 ／ 総払戻</div><div class="v">¥1,100,588,000 ／ ¥782,596,760</div></div><div class="wide"><div class="k">期間 ／ 集計日</div><div class="v">過去10年 ／ 2026-09-17時点</div></div></div>
 <p class="body">全国24会場のすべてのレースで、1号艇を1着に固定し、残り5艇すべてを相手にした3連単を買い続けた場合の集計です。1レースあたり20点(2,000円)、期間は過去10年です。</p>
 <a class="go" href="/backtest-custom.html?preset=%7B%22venue%22%3A%22%E5%85%A8%E5%9B%BD%22%2C%22period%22%3A%2210y%22%2C%22bet%22%3A%223t%22%2C%22mode%22%3A%22axis%22%2C%22axisBoat%22%3A1%2C%22axisPos%22%3A1%2C%22oppoBoats%22%3A%5B2%2C3%2C4%2C5%2C6%5D%7D">この条件を自分で回す<small>同じ条件でバックテストが開きます</small></a>
 <p class="more"><a href="/checked/">ほかの検証結果を見る</a></p>

diff --git a/checked/zenkoku-3rentan-1-23.html b/checked/zenkoku-3rentan-1-23.html
@@ -5,12 +5,12 @@
 <meta name="viewport" content="width=device-width, initial-scale=1">
 <meta http-equiv="Content-Security-Policy" content="default-src 'self'; script-src 'self'; connect-src 'self'; style-src 'self' 'unsafe-inline'; img-src 'self' data:; object-src 'none'; base-uri 'self'; form-action 'self'">
 <title>全国・1号艇を軸（1着）→2・3号艇・3連単・過去10年の検証結果｜艇読み</title>
-<meta name="description" content="全国・1号艇を軸（1着）→2・3号艇・3連単・過去10年を買い続けた場合の回収率は80.0%、的中率は12.0%。550,174レースの機械的な集計です（2026-09-06時点）。">
+<meta name="description" content="全国・1号艇を軸（1着）→2・3号艇・3連単・過去10年を買い続けた場合の回収率は80.5%、的中率は12.1%。550,294レースの機械的な集計です（2026-09-17時点）。">
 <link rel="canonical" href="https://teiyomi.com/checked/zenkoku-3rentan-1-23.html">
 <meta property="og:type" content="article">
 <meta property="og:url" content="https://teiyomi.com/checked/zenkoku-3rentan-1-23.html">
 <meta property="og:title" content="全国・1号艇を軸（1着）→2・3号艇・3連単・過去10年の検証結果｜艇読み">
-<meta property="og:description" content="全国・1号艇を軸（1着）→2・3号艇・3連単・過去10年を買い続けた場合の回収率は80.0%、的中率は12.0%。550,174レースの機械的な集計です（2026-09-06時点）。">
+<meta property="og:description" content="全国・1号艇を軸（1着）→2・3号艇・3連単・過去10年を買い続けた場合の回収率は80.5%、的中率は12.1%。550,294レースの機械的な集計です（2026-09-17時点）。">
 <meta property="og:image" content="https://teiyomi.com/cards/checked/zenkoku-3rentan-1-23.png">
 <meta name="twitter:card" content="summary_large_image">
 <link rel="stylesheet" href="/theme.css">
@@ -43,7 +43,7 @@ p.body{font-size:14.5px; margin:18px 0;}
 <p class="crumb"><a href="/">艇読み</a> ／ <a href="/checked/">検証結果</a></p>
 <h1>みんなが買う並びを、10年買い続けた結果です。</h1>
 <p class="cond">全国・1号艇を軸（1着）→2・3号艇・3連単・過去10年</p>
-<div class="nums"><div><div class="k">回収率</div><div class="v hi">80.0%</div></div><div><div class="k">的中率</div><div class="v">12.0%</div></div><div><div class="k">対象レース数</div><div class="v">550,174</div></div><div><div class="k">1レースあたり</div><div class="v">2点(200円)</div></div><div class="wide"><div class="k">総賭け金 ／ 総払戻</div><div class="v">¥110,034,800 ／ ¥88,051,680</div></div><div class="wide"><div class="k">期間 ／ 集計日</div><div class="v">過去10年 ／ 2026-09-06時点</div></div></div>
+<div class="nums"><div><div class="k">回収率</div><div class="v hi">80.5%</div></div><div><div class="k">的中率</div><div class="v">12.1%</div></div><div><div class="k">対象レース数</div><div class="v">550,294</div></div><div><div class="k">1レースあたり</div><div class="v">2点(200円)</div></div><div class="wide"><div class="k">総賭け金 ／ 総払戻</div><div class="v">¥110,058,800 ／ ¥88,585,810</div></div><div class="wide"><div class="k">期間 ／ 集計日</div><div class="v">過去10年 ／ 2026-09-17時点</div></div></div>
 <p class="body">全国24会場のすべてのレースで、1号艇を1着に固定し、2号艇と3号艇を相手にした3連単を買い続けた場合の集計です。1レースあたり2点(200円)、期間は過去10年です。</p>
 <a class="go" href="/backtest-custom.html?preset=%7B%22venue%22%3A%22%E5%85%A8%E5%9B%BD%22%2C%22period%22%3A%2210y%22%2C%22bet%22%3A%223t%22%2C%22mode%22%3A%22axis%22%2C%22axisBoat%22%3A1%2C%22axisPos%22%3A1%2C%22oppoBoats%22%3A%5B2%2C3%5D%7D">この条件を自分で回す<small>同じ条件でバックテストが開きます</small></a>
 <p class="more"><a href="/checked/">ほかの検証結果を見る</a></p>

diff --git a/checked/zenkoku-tansho-1-entrychange.html b/checked/zenkoku-tansho-1-entrychange.html
@@ -5,12 +5,12 @@
 <meta name="viewport" content="width=device-width, initial-scale=1">
 <meta http-equiv="Content-Security-Policy" content="default-src 'self'; script-src 'self'; connect-src 'self'; style-src 'self' 'unsafe-inline'; img-src 'self' data:; object-src 'none'; base-uri 'self'; form-action 'self'">
 <title>全国・1号艇・単勝・進入変化あり・過去10年の検証結果｜艇読み</title>
-<meta name="description" content="全国・1号艇・単勝・進入変化あり・過去10年を買い続けた場合の回収率は81.2%、的中率は44.1%。129,987レースの機械的な集計です（2026-09-06時点）。">
+<meta name="description" content="全国・1号艇・単勝・進入変化あり・過去10年を買い続けた場合の回収率は85.0%、的中率は46.4%。129,867レースの機械的な集計です（2026-09-17時点）。">
 <link rel="canonical" href="https://teiyomi.com/checked/zenkoku-tansho-1-entrychange.html">
 <meta property="og:type" content="article">
 <meta property="og:url" content="https://teiyomi.com/checked/zenkoku-tansho-1-entrychange.html">
 <meta property="og:title" content="全国・1号艇・単勝・進入変化あり・過去10年の検証結果｜艇読み">
-<meta property="og:description" content="全国・1号艇・単勝・進入変化あり・過去10年を買い続けた場合の回収率は81.2%、的中率は44.1%。129,987レースの機械的な集計です（2026-09-06時点）。">
+<meta property="og:description" content="全国・1号艇・単勝・進入変化あり・過去10年を買い続けた場合の回収率は85.0%、的中率は46.4%。129,867レースの機械的な集計です（2026-09-17時点）。">
 <meta property="og:image" content="https://teiyomi.com/cards/checked/zenkoku-tansho-1-entrychange.png">
 <meta name="twitter:card" content="summary_large_image">
 <link rel="stylesheet" href="/theme.css">
@@ -43,7 +43,7 @@ p.body{font-size:14.5px; margin:18px 0;}
 <p class="crumb"><a href="/">艇読み</a> ／ <a href="/checked/">検証結果</a></p>
 <h1>前づけのあるレースでは、枠の常識が崩れます。</h1>
 <p class="cond">全国・1号艇・単勝・進入変化あり・過去10年</p>
-<div class="nums"><div><div class="k">回収率</div><div class="v hi">81.2%</div></div><div><div class="k">的中率</div><div class="v">44.1%</div></div><div><div class="k">対象レース数</div><div class="v">129,987</div></div><div><div class="k">1レースあたり</div><div class="v">1点(100円)</div></div><div class="wide"><div class="k">総賭け金 ／ 総払戻</div><div class="v">¥12,998,700 ／ ¥10,556,560</div></div><div class="wide"><div class="k">期間 ／ 集計日</div><div class="v">過去10年 ／ 2026-09-06時点</div></div></div>
+<div class="nums"><div><div class="k">回収率</div><div class="v hi">85.0%</div></div><div><div class="k">的中率</div><div class="v">46.4%</div></div><div><div class="k">対象レース数</div><div class="v">129,867</div></div><div><div class="k">1レースあたり</div><div class="v">1点(100円)</div></div><div class="wide"><div class="k">総賭け金 ／ 総払戻</div><div class="v">¥12,986,700 ／ ¥11,041,940</div></div><div class="wide"><div class="k">期間 ／ 集計日</div><div class="v">過去10年 ／ 2026-09-17時点</div></div></div>
 <p class="body">全国24会場のうち、進入が枠なりでなかったレースだけに絞って、1号艇の単勝を1点買い続けた場合の集計です。期間は過去10年、1レースあたり100円で計算しています。</p>
 <a class="go" href="/backtest-custom.html?preset=%7B%22venue%22%3A%22%E5%85%A8%E5%9B%BD%22%2C%22period%22%3A%2210y%22%2C%22bet%22%3A%22t%22%2C%22mode%22%3A%22single%22%2C%22singleBoats%22%3A%5B1%5D%2C%22filter%22%3A%7B%22entry%22%3A%22change%22%7D%7D">この条件を自分で回す<small>同じ条件でバックテストが開きます</small></a>
 <p class="more"><a href="/checked/">ほかの検証結果を見る</a></p>

diff --git a/checked/zenkoku-tansho-1-wind5.html b/checked/zenkoku-tansho-1-wind5.html
@@ -5,12 +5,12 @@
 <meta name="viewport" content="width=device-width, initial-scale=1">
 <meta http-equiv="Content-Security-Policy" content="default-src 'self'; script-src 'self'; connect-src 'self'; style-src 'self' 'unsafe-inline'; img-src 'self' data:; object-src 'none'; base-uri 'self'; form-action 'self'">
 <title>全国・1号艇・単勝・風5m以上・過去10年の検証結果｜艇読み</title>
-<meta name="description" content="全国・1号艇・単勝・風5m以上・過去10年を買い続けた場合の回収率は83.4%、的中率は47.8%。86,116レースの機械的な集計です（2026-09-06時点）。">
+<meta name="description" content="全国・1号艇・単勝・風5m以上・過去10年を買い続けた場合の回収率は84.5%、的中率は48.4%。86,188レースの機械的な集計です（2026-09-17時点）。">
 <link rel="canonical" href="https://teiyomi.com/checked/zenkoku-tansho-1-wind5.html">
 <meta property="og:type" content="article">
 <meta property="og:url" content="https://teiyomi.com/checked/zenkoku-tansho-1-wind5.html">
 <meta property="og:title" content="全国・1号艇・単勝・風5m以上・過去10年の検証結果｜艇読み">
-<meta property="og:description" content="全国・1号艇・単勝・風5m以上・過去10年を買い続けた場合の回収率は83.4%、的中率は47.8%。86,116レースの機械的な集計です（2026-09-06時点）。">
+<meta property="og:description" content="全国・1号艇・単勝・風5m以上・過去10年を買い続けた場合の回収率は84.5%、的中率は48.4%。86,188レースの機械的な集計です（2026-09-17時点）。">
 <meta property="og:image" content="https://teiyomi.com/cards/checked/zenkoku-tansho-1-wind5.png">
 <meta name="twitter:card" content="summary_large_image">
 <link rel="stylesheet" href="/theme.css">
@@ -43,7 +43,7 @@ p.body{font-size:14.5px; margin:18px 0;}
 <p class="crumb"><a href="/">艇読み</a> ／ <a href="/checked/">検証結果</a></p>
 <h1>風が5m吹くと、1号艇は崩れ始めます。</h1>
 <p class="cond">全国・1号艇・単勝・風5m以上・過去10年</p>
-<div class="nums"><div><div class="k">回収率</div><div class="v hi">83.4%</div></div><div><div class="k">的中率</div><div class="v">47.8%</div></div><div><div class="k">対象レース数</div><div class="v">86,116</div></div><div><div class="k">1レースあたり</div><div class="v">1点(100円)</div></div><div class="wide"><div class="k">総賭け金 ／ 総払戻</div><div class="v">¥8,611,600 ／ ¥7,180,170</div></div><div class="wide"><div class="k">期間 ／ 集計日</div><div class="v">過去10年 ／ 2026-09-06時点</div></div></div>
+<div class="nums"><div><div class="k">回収率</div><div class="v hi">84.5%</div></div><div><div class="k">的中率</div><div class="v">48.4%</div></div><div><div class="k">対象レース数</div><div class="v">86,188</div></div><div><div class="k">1レースあたり</div><div class="v">1点(100円)</div></div><div class="wide"><div class="k">総賭け金 ／ 総払戻</div><div class="v">¥8,618,800 ／ ¥7,280,890</div></div><div class="wide"><div class="k">期間 ／ 集計日</div><div class="v">過去10年 ／ 2026-09-17時点</div></div></div>
 <p class="body">全国24会場のうち、風速5m以上のレースだけに絞って、1号艇の単勝を1点買い続けた場合の集計です。期間は過去10年、1レースあたり100円で計算しています。</p>
 <a class="go" href="/backtest-custom.html?preset=%7B%22venue%22%3A%22%E5%85%A8%E5%9B%BD%22%2C%22period%22%3A%2210y%22%2C%22bet%22%3A%22t%22%2C%22mode%22%3A%22single%22%2C%22singleBoats%22%3A%5B1%5D%2C%22filter%22%3A%7B%22wind%22%3A%22hi%22%7D%7D">この条件を自分で回す<small>同じ条件でバックテストが開きます</small></a>
 <p class="more"><a href="/checked/">ほかの検証結果を見る</a></p>

diff --git a/checked/zenkoku-tansho-1-yusho.html b/checked/zenkoku-tansho-1-yusho.html
@@ -5,12 +5,12 @@
 <meta name="viewport" content="width=device-width, initial-scale=1">
 <meta http-equiv="Content-Security-Policy" content="default-src 'self'; script-src 'self'; connect-src 'self'; style-src 'self' 'unsafe-inline'; img-src 'self' data:; object-src 'none'; base-uri 'self'; form-action 'self'">
 <title>全国・1号艇・単勝・優勝戦・過去10年の検証結果｜艇読み</title>
-<meta name="description" content="全国・1号艇・単勝・優勝戦・過去10年を買い続けた場合の回収率は86.9%、的中率は68.9%。8,518レースの機械的な集計です（2026-09-06時点）。">
+<meta name="description" content="全国・1号艇・単勝・優勝戦・過去10年を買い続けた場合の回収率は86.9%、的中率は69.0%。8,516レースの機械的な集計です（2026-09-17時点）。">
 <link rel="canonical" href="https://teiyomi.com/checked/zenkoku-tansho-1-yusho.html">
 <meta property="og:type" content="article">
 <meta property="og:url" content="https://teiyomi.com/checked/zenkoku-tansho-1-yusho.html">
 <meta property="og:title" content="全国・1号艇・単勝・優勝戦・過去10年の検証結果｜艇読み">
-<meta property="og:description" content="全国・1号艇・単勝・優勝戦・過去10年を買い続けた場合の回収率は86.9%、的中率は68.9%。8,518レースの機械的な集計です（2026-09-06時点）。">
+<meta property="og:description" content="全国・1号艇・単勝・優勝戦・過去10年を買い続けた場合の回収率は86.9%、的中率は69.0%。8,516レースの機械的な集計です（2026-09-17時点）。">
 <meta property="og:image" content="https://teiyomi.com/cards/checked/zenkoku-tansho-1-yusho.png">
 <meta name="twitter:card" content="summary_large_image">
 <link rel="stylesheet" href="/theme.css">
@@ -43,7 +43,7 @@ p.body{font-size:14.5px; margin:18px 0;}
 <p class="crumb"><a href="/">艇読み</a> ／ <a href="/checked/">検証結果</a></p>
 <h1>的中率は上がるのに、回収率は下がります。人気の値段です。</h1>
 <p class="cond">全国・1号艇・単勝・優勝戦・過去10年</p>
-<div class="nums"><div><div class="k">回収率</div><div class="v hi">86.9%</div></div><div><div class="k">的中率</div><div class="v">68.9%</div></div><div><div class="k">対象レース数</div><div class="v">8,518</div></div><div><div class="k">1レースあたり</div><div class="v">1点(100円)</div></div><div class="wide"><div class="k">総賭け金 ／ 総払戻</div><div class="v">¥851,800 ／ ¥739,960</div></div><div class="wide"><div class="k">期間 ／ 集計日</div><div class="v">過去10年 ／ 2026-09-06時点</div></div></div>
+<div class="nums"><div><div class="k">回収率</div><div class="v hi">86.9%</div></div><div><div class="k">的中率</div><div class="v">69.0%</div></div><div><div class="k">対象レース数</div><div class="v">8,516</div></div><div><div class="k">1レースあたり</div><div class="v">1点(100円)</div></div><div class="wide"><div class="k">総賭け金 ／ 総払戻</div><div class="v">¥851,600 ／ ¥740,420</div></div><div class="wide"><div class="k">期間 ／ 集計日</div><div class="v">過去10年 ／ 2026-09-17時点</div></div></div>
 <p class="body">全国24会場のうち、優勝戦だけに絞って、1号艇の単勝を1点買い続けた場合の集計です。期間は過去10年、1レースあたり100円で計算しています。</p>
 <a class="go" href="/backtest-custom.html?preset=%7B%22venue%22%3A%22%E5%85%A8%E5%9B%BD%22%2C%22period%22%3A%2210y%22%2C%22bet%22%3A%22t%22%2C%22mode%22%3A%22single%22%2C%22singleBoats%22%3A%5B1%5D%2C%22filter%22%3A%7B%22kind%22%3A%22yusho%22%7D%7D">この条件を自分で回す<small>同じ条件でバックテストが開きます</small></a>
 <p class="more"><a href="/checked/">ほかの検証結果を見る</a></p>
